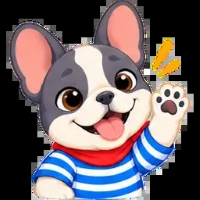
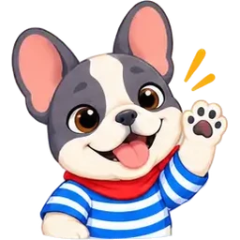
Ảnh Leon cho mail: ghép lên nền trắng thật (bản trước mất kênh alpha thành nền đen)

diff --git a/supabase/functions/gui-nhac-hoc/index.ts b/supabase/functions/gui-nhac-hoc/index.ts
@@ -22,7 +22,7 @@ function khung(anh: string, tieuDe: string, than: string, nut: string, link: str
   return `<!doctype html><html lang="vi"><body style="margin:0;background:#eef3fb;font-family:'Segoe UI',Roboto,Helvetica,Arial,sans-serif;color:#1c2333">
 <table role="presentation" width="100%" cellpadding="0" cellspacing="0" style="padding:24px 12px"><tr><td align="center">
 <table role="presentation" width="100%" cellpadding="0" cellspacing="0" style="max-width:520px;background:#ffffff;border-radius:24px;padding:32px 28px">
-<tr><td align="center"><img src="${WEB}/leon/mail/${anh}.png" width="120" height="120" alt="Leon" style="display:block;border:0"></td></tr>
+<tr><td align="center"><img src="${WEB}/leon/mail/${anh}.png?v=2" width="120" height="120" alt="Leon" style="display:block;border:0"></td></tr>
 <tr><td style="padding-top:16px;font-size:22px;font-weight:700;text-align:center">${tieuDe}</td></tr>
 <tr><td style="padding-top:12px;font-size:15px;line-height:1.6;text-align:center;color:#4a5468">${than}</td></tr>
 <tr><td align="center" style="padding-top:24px"><a href="${link}" style="display:inline-block;background:#2563eb;color:#ffffff;text-decoration:none;font-weight:700;font-size:16px;padding:14px 32px;border-radius:999px">${nut}</a></td></tr>
